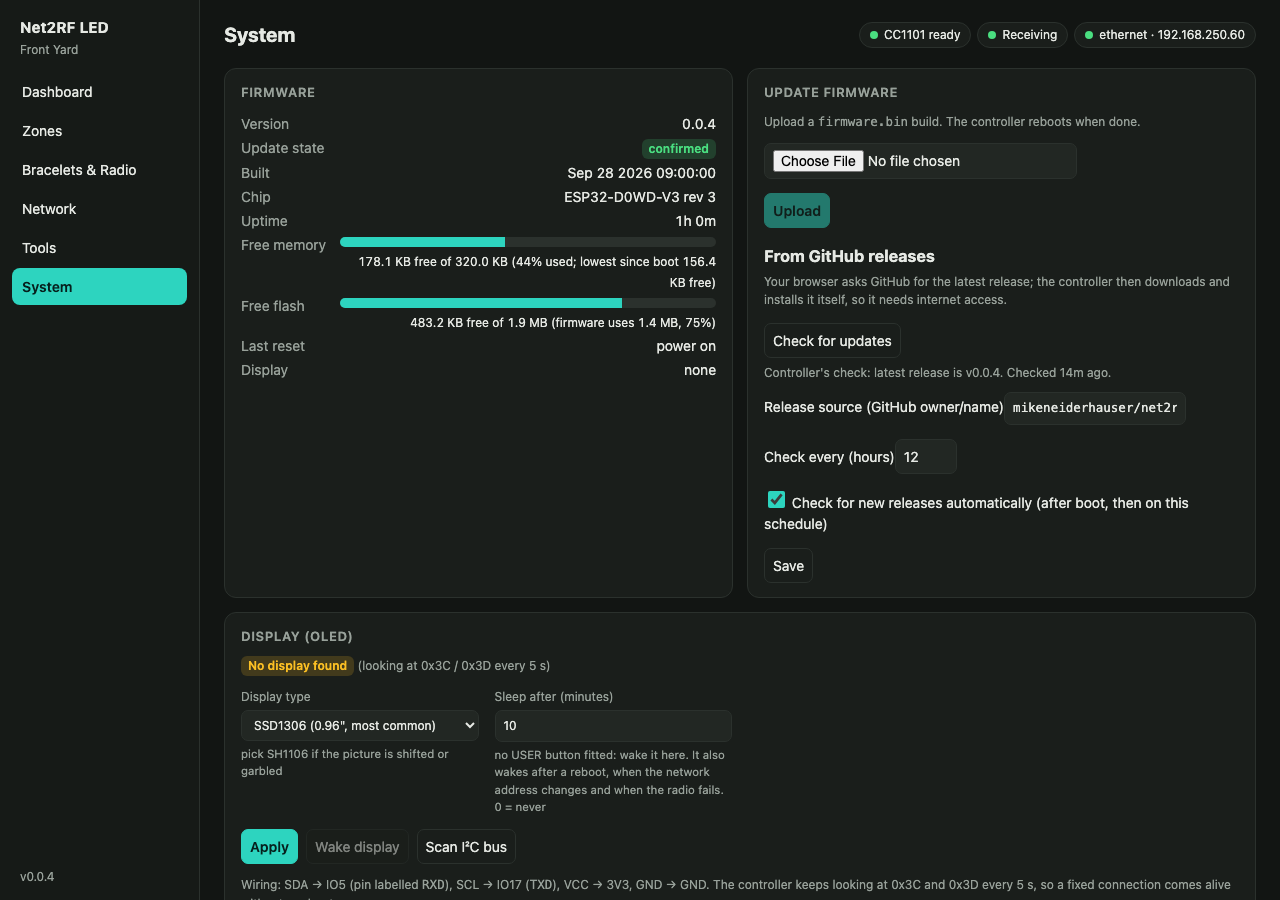
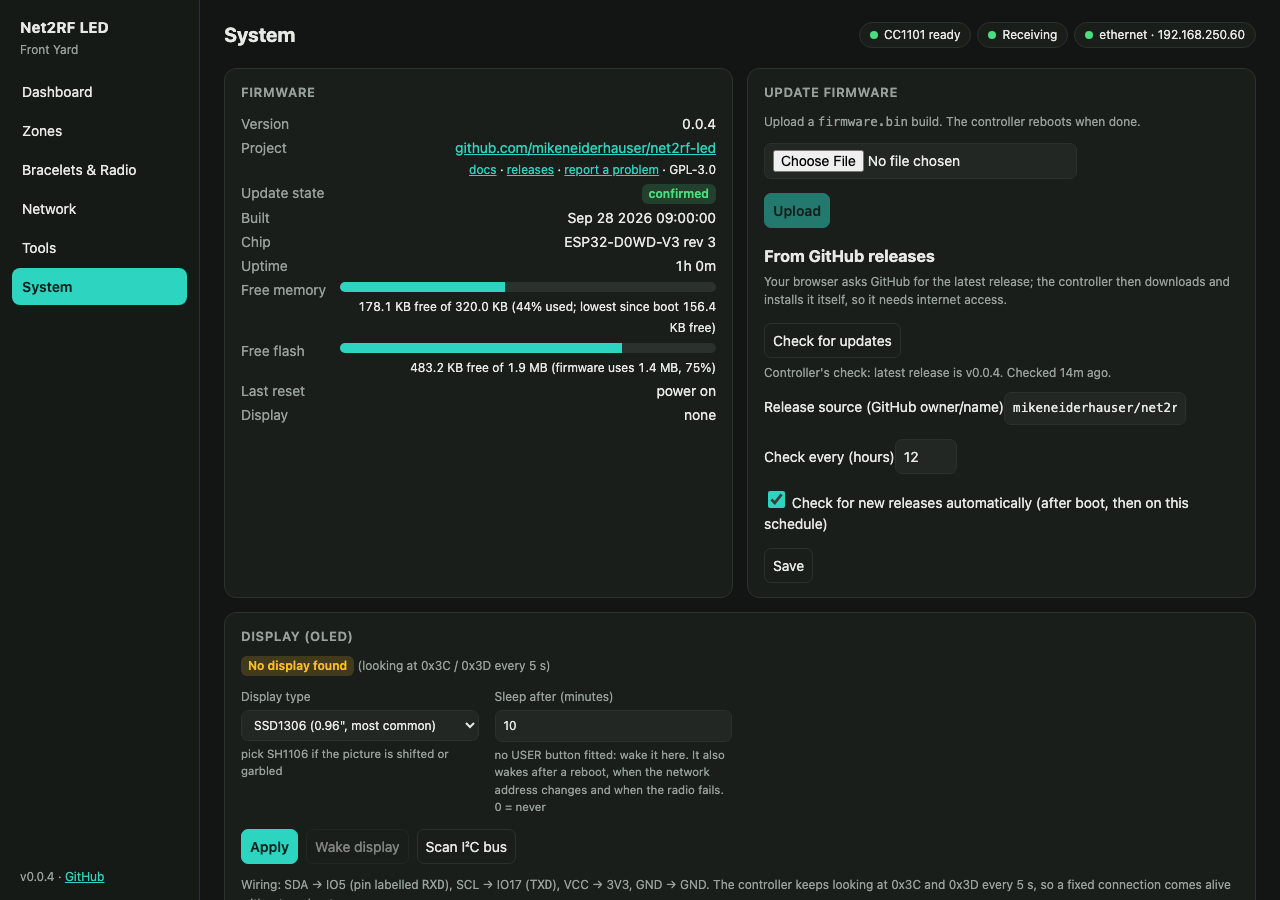
Web UI: link to the project on GitHub
A GitHub link next to the version in the sidebar, and a Project row on the
System page with links to the docs, releases and issue tracker.

Changed region(s): [[0.1875, 0.1556, 0.5625, 0.4667], [0.0625, 0.9644, 0.0938, 0.9956]]

diff --git a/web/index.html b/web/index.html
@@ -97,7 +97,7 @@ details.adv>summary{cursor:pointer;font-weight:600;color:var(--dim)}details.adv[
     <a href="#tools">Tools</a>
     <a href="#system">System</a>
   </nav>
-  <div class="ver" id="verLabel"></div>
+  <div class="ver"><span id="verLabel"></span> &middot; <a href="https://github.com/mikeneiderhauser/net2rf-led" target="_blank" rel="noopener" title="Source, documentation and releases">GitHub</a></div>
 </aside>
 <main>
   <div id="cnaNote" class="card hide" style="border-left:4px solid var(--warn)"><b>You're in the Wi-Fi sign-in window.</b>
@@ -848,9 +848,10 @@ $('o_scan').onclick=async()=>{const r=await api('i2c/scan');const out=$('o_scanO
     `\nSCL (IO17) idle: ${r.scl_high?'high (ok)':'LOW: short, missing pull-up or wiring'}`+
     `\nScanned with ${r.orientation}`+
     (r.devices.length&&!r.devices.some(a=>a==='0x3C'||a==='0x3D')?'\nA device answered, but not at 0x3C/0x3D: is it a display?':'')};
+const GH_URL='https://github.com/mikeneiderhauser/net2rf-led';
 function sysInfo(){authUi();displayUi();ghFill();ghJob();fwNotice();const d=S.device;
   const upd=d.update_pending?'<span class="badge warn">new update, confirming…</span>':d.update_rolled_back?'<span class="badge bad">last update failed and was rolled back</span>':'<span class="badge good">confirmed</span>';
-  kv($('s_info'),[['Version',d.firmware],['Update state',upd],['Built',d.built],['Chip',`${d.chip} rev ${d.chip_rev}`],['Uptime',fmtUp(d.uptime_s)],['Free memory',heapFree(d,true)],['Free flash',flashFree(d,true)],['Last reset',d.reset_reason],['Display',d.display_info&&d.display_info.present?`${d.display_info.type.toUpperCase()} at ${d.display_info.address}`:'none']])}
+  kv($('s_info'),[['Version',d.firmware],['Project',`<a href="${GH_URL}" target="_blank" rel="noopener">github.com/mikeneiderhauser/net2rf-led</a><br><span class="small"><a href="${GH_URL}#documentation" target="_blank" rel="noopener">docs</a> · <a href="${GH_URL}/releases" target="_blank" rel="noopener">releases</a> · <a href="${GH_URL}/issues" target="_blank" rel="noopener">report a problem</a> · GPL-3.0</span>`],['Update state',upd],['Built',d.built],['Chip',`${d.chip} rev ${d.chip_rev}`],['Uptime',fmtUp(d.uptime_s)],['Free memory',heapFree(d,true)],['Free flash',flashFree(d,true)],['Last reset',d.reset_reason],['Display',d.display_info&&d.display_info.present?`${d.display_info.type.toUpperCase()} at ${d.display_info.address}`:'none']])}
 $('s_file').onchange=()=>{$('s_upload').disabled=!$('s_file').files.length};
 $('s_upload').onclick=async()=>{const f=$('s_file').files[0];if(!f)return;if(!await ask(`Flash ${f.name} (${fmtBytes(f.size)})?`))return;
   try{await api('config')}catch(e){return}  // log in first so the upload isn't sent twice
